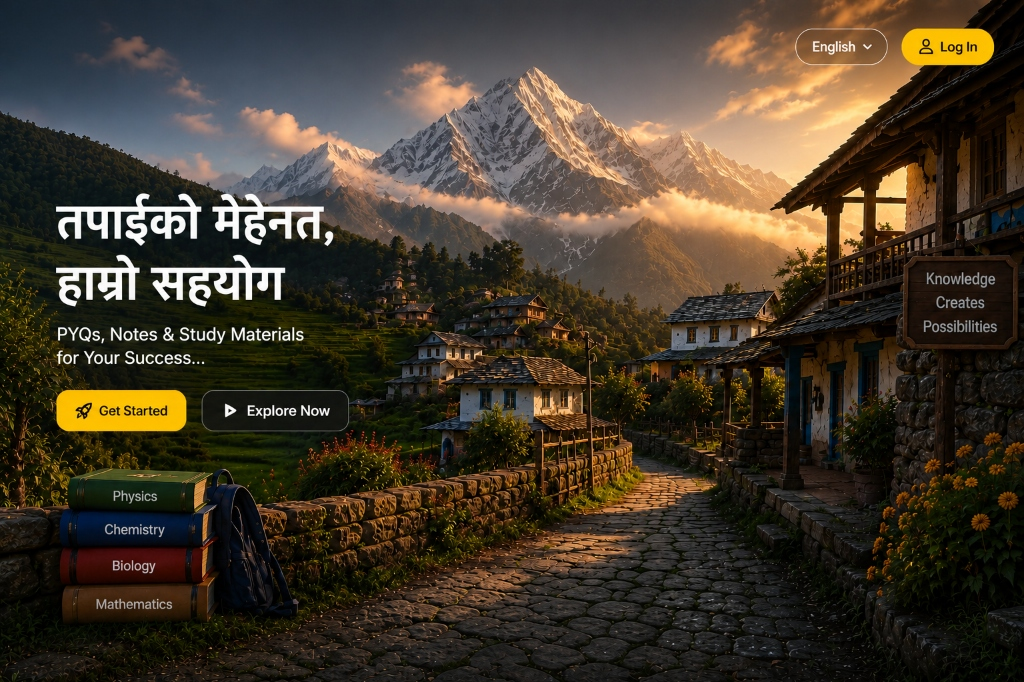
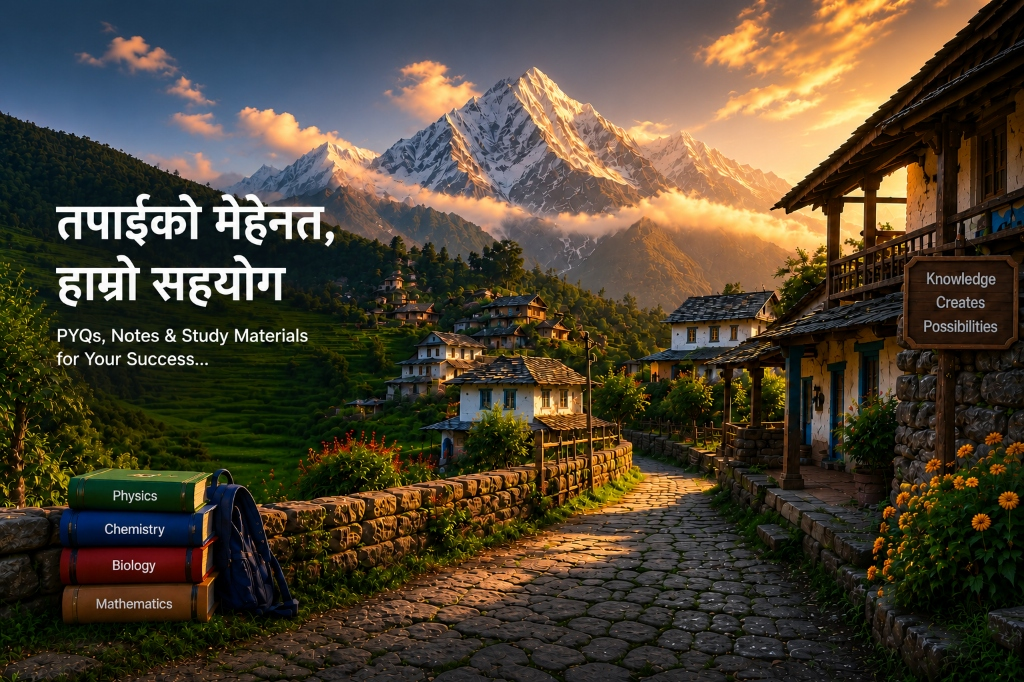
Update background image path to hero-bg.jpg on landing and auth pages

diff --git a/src/pages/Landing.tsx b/src/pages/Landing.tsx
@@ -55,7 +55,7 @@ export const Landing = () => {
         {/* Hero Background Image - Full screen cover */}
         <div 
           className="absolute inset-0 bg-cover bg-center bg-no-repeat z-0" 
-          style={{ backgroundImage: "url('/hero-bg.png')" }}
+          style={{ backgroundImage: "url('/hero-bg.jpg')" }}
         />
         {/* Dark overlay for text readability, matching the warm sunset theme */}
         <div className="absolute inset-0 bg-gradient-to-r from-black/75 via-black/35 to-transparent z-0 pointer-events-none" />

diff --git a/src/pages/Register.tsx b/src/pages/Register.tsx
@@ -159,7 +159,7 @@ export const Register = () => {
       {/* Full-screen Background Image */}
       <div 
         className="absolute inset-0 bg-cover bg-center bg-no-repeat z-0" 
-        style={{ backgroundImage: "url('/hero-bg.png')" }}
+        style={{ backgroundImage: "url('/hero-bg.jpg')" }}
       />
       {/* Dark blur overlay */}
       <div className="absolute inset-0 bg-black/60 backdrop-blur-sm z-0 pointer-events-none" />

diff --git a/src/pages/Login.tsx b/src/pages/Login.tsx
@@ -149,7 +149,7 @@ export const Login = () => {
       {/* Full-screen Background Image */}
       <div 
         className="absolute inset-0 bg-cover bg-center bg-no-repeat z-0" 
-        style={{ backgroundImage: "url('/hero-bg.png')" }}
+        style={{ backgroundImage: "url('/hero-bg.jpg')" }}
       />
       {/* Dark blur overlay */}
       <div className="absolute inset-0 bg-black/60 backdrop-blur-sm z-0 pointer-events-none" />
